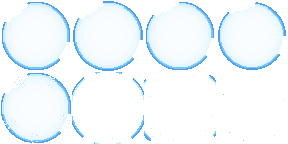
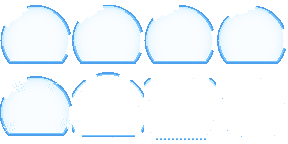
보호막 방울을 돔 모양으로 (아래 평평, 발 밑에 닿음)

diff --git a/img/tools/fx_bubble_draw.js b/img/tools/fx_bubble_draw.js
@@ -1,45 +1,46 @@
-// 사용: img/tools 에서 node fx_bubble_draw.js (결과는 ./fxout/). 보호막 방울 8프레임을 코드로 그린다. png_helper.js는 PNG 읽기·쓰기 도구.
+// 사용: img/tools 에서 node fx_bubble_draw.js (결과는 ./fxout/). 보호막 돔 방울 8프레임을 코드로 그린다. png_helper.js는 PNG 읽기·쓰기 도구.
+// 보호막 방울(아래가 일자): 72x72 프레임 8장 (유지 0~3, 깨짐 4~7). 사용: node bubble2.js
 const {dec,enc}=require('./png_helper.js');const fs=require('fs');
-const F=72,C=(F-1)/2,R=34;const WHITE=[255,255,255];
+const F=72,CX=35.5,CY=40,R=35,CUT=22,YB=CY+CUT; // YB = 평평한 바닥 줄(약 y 68)
+const WHITE=[255,255,255],DARK=[78,160,236],MID=[120,200,255],LIGHT=[196,238,255],TINT=[150,215,255];
 function frame(k){
  const px=Buffer.alloc(F*F*4);const set=(x,y,c,al=255)=>{x=Math.round(x);y=Math.round(y);if(x<0||y<0||x>=F||y>=F)return;const q=(y*F+x)*4;px[q]=c[0];px[q+1]=c[1];px[q+2]=c[2];px[q+3]=al};
- const ang=(x,y,ox=0,oy=0)=>((Math.atan2(y-oy-C,x-ox-C)*180/Math.PI)+360)%360;const inArc=(a,s,e)=>{a=(a-s+720)%360;return a<=((e-s+720)%360)};
- const DARK=[78,160,236],MID=[120,200,255],LIGHT=[196,238,255],TINT=[150,215,255];
- // 한 점의 방울 색: dd = 바깥 가장자리에서 안쪽으로 잰 거리
- function pix(dd,a,s,withTint,full){let c=null,al=255;
-  if(dd>=-0.5&&dd<1){c=DARK}else if(dd>=1&&dd<2.5){c=a>170&&a<300?LIGHT:MID}
-  else if(withTint&&dd>=2.5){c=TINT;al=Math.round(14+66*Math.exp(-(dd-2.5)/4.2))}
-  if(full){ // 반사광: 왼쪽 위 크게, 오른쪽 아래 작게
-   if(inArc(a,205+s,255+s)&&dd>=-0.5&&dd<4.2){c=WHITE;al=255}
-   if(inArc(a,222+s,242+s)&&dd>=4.2&&dd<6.2){c=WHITE;al=255}
-   if(inArc(a,10-s*.5,44-s*.5)&&dd>=-0.5&&dd<3){c=WHITE;al=255}}
+ const ang=(x,y,ox=0,oy=0)=>((Math.atan2(y-oy-CY,x-ox-CX)*180/Math.PI)+360)%360;const inArc=(a,s,e)=>{a=(a-s+720)%360;return a<=((e-s+720)%360)};
+ // 한 점의 색: ddc=원 가장자리에서 안쪽 거리, ddf=평평한 바닥에서 위쪽 거리
+ function pix(ddc,ddf,a,s,full){const dd=Math.min(ddc,ddf);let c=null,al=255;
+  if(dd>=-0.5&&dd<1){c=DARK}else if(dd>=1&&dd<2.5){c=(ddf<ddc)?MID:(a>170&&a<300?LIGHT:MID)}
+  else if(dd>=2.5){c=TINT;al=Math.round(12+62*Math.exp(-(ddc-2.5)/4.2)*(ddf<10?ddf/10:1))}
+  if(full){
+   if(inArc(a,205+s,255+s)&&ddc>=-0.5&&ddc<4.2){c=WHITE;al=255}
+   if(inArc(a,222+s,242+s)&&ddc>=4.2&&ddc<6.2){c=WHITE;al=255}
+   if(inArc(a,350-s*.5,24-s*.5)&&ddc>=-0.5&&ddc<3){c=WHITE;al=255}}
   return c?[c,al]:null}
- const hold=k<4;const t=k%4;
- if(hold){const rr=R+[0,.5,0,-.5][t],s=t*7;
-  for(let y=0;y<F;y++)for(let x=0;x<F;x++){const d=Math.hypot(x-C,y-C);const p=pix(rr-d,ang(x,y),s,true,true);if(p)set(x,y,p[0],p[1])}
-  const sp=[[C+15,C-19],[C-23,C+11],[C+5,C-26],[C+21,C+7]];[0,2].forEach(i=>set(sp[(t+i)%4][0],sp[(t+i)%4][1],WHITE));set(C-18,C-22,WHITE)}
- else if(t===0){const rr=R+1;
-  for(let y=0;y<F;y++)for(let x=0;x<F;x++){const d=Math.hypot(x-C,y-C);const p=pix(rr-d,ang(x,y),0,true,true);if(p)set(x,y,p[0],p[1])}
-  for(const A of [300,150,20,95,235]){for(let r=rr-10;r<=rr+1;r+=.6){const a=(A+Math.sin(r*2)*7)*Math.PI/180;set(C+r*Math.cos(a),C+r*Math.sin(a),WHITE);set(C+r*Math.cos(a)+1,C+r*Math.sin(a),LIGHT)}}}
- else if(t===1||t===2){const n=6,gap=t===1?14:24,off=t===1?4:10,arcLen=360/n-gap;
-  for(let i=0;i<n;i++){const s=i*360/n+8,mid=s+arcLen/2,ox=Math.cos(mid*Math.PI/180)*off,oy=Math.sin(mid*Math.PI/180)*off;
-   for(let y=0;y<F;y++)for(let x=0;x<F;x++){const d=Math.hypot(x-ox-C,y-oy-C),a=ang(x,y,ox,oy);if(!inArc(a,s,s+arcLen))continue;const dd=R+1-d;
+ const hold=k<4,t=k%4;
+ if(hold||t===0){const rr=R+(hold?[0,.5,0,-.5][t]:1),s=hold?t*7:0;
+  for(let y=0;y<F;y++)for(let x=0;x<F;x++){const d=Math.hypot(x-CX,y-CY);const ddf=YB-y+0.5;if(ddf<-0.5)continue;const p=pix(rr-d,ddf,ang(x,y),s,true);if(p)set(x,y,p[0],p[1])}
+  if(hold){const sp=[[CX+15,CY-19],[CX-23,CY+11],[CX+5,CY-26],[CX+21,CY+7]];[0,2].forEach(i=>set(sp[(t+i)%4][0],sp[(t+i)%4][1],WHITE));set(CX-18,CY-22,WHITE)}
+  else for(const A of [300,150,20,95,235]){for(let r=rr-10;r<=rr+1;r+=.6){const a=(A+Math.sin(r*2)*7)*Math.PI/180,x=CX+r*Math.cos(a),y=CY+r*Math.sin(a);if(y<=YB){set(x,y,WHITE);set(x+1,y,LIGHT)}}}}
+ else if(t===1||t===2){const n=5,gap=t===1?14:24,off=t===1?4:10,arcLen=258/n-gap;
+  for(let i=0;i<n;i++){const s=141+i*258/n+gap/2,mid=s+arcLen/2,ox=Math.cos(mid*Math.PI/180)*off,oy=Math.sin(mid*Math.PI/180)*off;
+   for(let y=0;y<F;y++)for(let x=0;x<F;x++){const d=Math.hypot(x-ox-CX,y-oy-CY),a=ang(x,y,ox,oy);if(!inArc(a,s,s+arcLen))continue;if(y-oy>YB+0.5)continue;const dd=Math.min(R+1-d,YB-(y-oy)+0.5);
     if(dd>=-0.5&&dd<1)set(x,y,DARK);else if(dd>=1&&dd<2.5)set(x,y,i%2?LIGHT:MID);else if(dd>=2.5&&dd<4&&i%3===0)set(x,y,WHITE)}}
-  const dr=t===1?[[C-27,C-21],[C+28,C-6],[C+3,C+30]]:[[C-31,C-12],[C+31,C+8],[C-8,C+32],[C+12,C-33],[C-21,C+26]];dr.forEach(p=>{set(p[0],p[1],WHITE);set(p[0]+1,p[1],LIGHT)});if(t===2)[[C+25,C+22],[C-29,C+20]].forEach(p=>set(p[0],p[1],LIGHT))}
- else{[[C-30,C-14],[C+31,C-9],[C-10,C+32],[C+22,C+27],[C-24,C+24],[C+8,C-33]].forEach((p,i)=>{set(p[0],p[1],i%2?LIGHT:WHITE);if(i%2===0)set(p[0]+1,p[1],MID)})}
+  // 바닥 줄도 조각: 아래로 처지며 끊어짐
+  const by=YB+(t===1?2:5);for(let x=CX-26;x<=CX+26;x++){if(t===2&&Math.round(x)%4>1)continue;set(x,by,DARK);set(x,by-1,MID)}
+  const dr=t===1?[[CX-28,CY-21],[CX+29,CY-6],[CX+3,CY+25]]:[[CX-32,CY-12],[CX+32,CY+8],[CX-18,CY+27],[CX+12,CY-34],[CX+26,CY+22]];dr.forEach(p=>{set(p[0],p[1],WHITE);set(p[0]+1,p[1],LIGHT)});if(t===2)[[CX+30,CY+18],[CX-30,CY+20]].forEach(p=>set(p[0],p[1],LIGHT))}
+ else{[[CX-31,CY-14],[CX+32,CY-9],[CX-12,CY+24],[CX+22,CY+23],[CX-26,CY+18],[CX+8,CY-34]].forEach((p,i)=>{set(p[0],p[1],i%2?LIGHT:WHITE);if(i%2===0)set(p[0]+1,p[1],MID)})}
  return px}
 const frames=[...Array(8)].map((_,k)=>frame(k));
 const cols=4,SW=cols*F,SH=2*F,sheet=Buffer.alloc(SW*SH*4);
 frames.forEach((p,n)=>{const r=Math.floor(n/cols),c=n%cols;for(let y=0;y<F;y++)p.copy(sheet,((r*F+y)*SW+c*F)*4,y*F*4,(y*F+F)*4)});
 fs.mkdirSync('fxout',{recursive:true});enc(SW,SH,sheet,'fxout/fx_bubble.png');
 const json={frames:frames.map((_,n)=>{const r=Math.floor(n/cols),c=n%cols;return{filename:(n<4?'bubble hold ':'bubble break ')+(n%4),frame:{x:c*F,y:r*F,w:F,h:F},rotated:false,trimmed:false,spriteSourceSize:{x:0,y:0,w:F,h:F},sourceSize:{w:F,h:F},duration:n<4?150:60}}),
- meta:{app:'image-session',image:'fx_bubble.png',size:{w:SW,h:SH},frameTags:[{name:'hold',from:0,to:3,direction:'pingpong'},{name:'break',from:4,to:7,direction:'forward'}]}};
+ meta:{app:'image-session',image:'fx_bubble.png',size:{w:SW,h:SH},anchor:{x:36,y:Math.round(YB)+1,note:'기준점 = 평평한 바닥 줄(영웅 발 밑)'},frameTags:[{name:'hold',from:0,to:3,direction:'pingpong'},{name:'break',from:4,to:7,direction:'forward'}]}};
 fs.writeFileSync('fxout/fx_bubble.json',JSON.stringify(json,null,1));
-// 미리보기: 전장색 바탕 + 기사 + 방울 (x4)
-const K=dec('C:/Users/Home/Downloads/방치형RPG_테스트베드/img/p/knight.png');const sc=4,PW=SW*sc,PH=SH*sc,o=Buffer.alloc(PW*PH*4);
+// 미리보기: 기사 발이 평평한 바닥 줄(YB)에 오게
+const Kn=dec(process.env.KNIGHT||'C:/Users/Home/Downloads/방치형RPG_테스트베드/img/p/knight.png');const sc=4,PW=SW*sc,PH=SH*sc,o=Buffer.alloc(PW*PH*4);
 for(let i=0;i<PW*PH;i++){o[i*4]=0x7a;o[i*4+1]=0x8a;o[i*4+2]=0x5a;o[i*4+3]=255}
 const put=(x,y,c,a)=>{const q=(y*PW+x)*4;o[q]=o[q]*(1-a/255)+c[0]*a/255;o[q+1]=o[q+1]*(1-a/255)+c[1]*a/255;o[q+2]=o[q+2]*(1-a/255)+c[2]*a/255};
-for(let n=0;n<8;n++){const r=Math.floor(n/cols),c=n%cols;
- if(n<5||n===5||true){for(let y=0;y<64;y++)for(let x=0;x<64;x++){const i=(y*64+x)*4;if(!K.d[i+3])continue;for(let yy=0;yy<sc;yy++)for(let xx=0;xx<sc;xx++)put((c*F+4+x)*sc+xx,(r*F+8+y)*sc+yy,[K.d[i],K.d[i+1],K.d[i+2]],255)}}
+for(let n=0;n<8;n++){const r=Math.floor(n/cols),c=n%cols;const ky=Math.round(YB)-63;
+ for(let y=0;y<64;y++)for(let x=0;x<64;x++){const i=(y*64+x)*4;if(!Kn.d[i+3])continue;for(let yy=0;yy<sc;yy++)for(let xx=0;xx<sc;xx++)put((c*F+4+x)*sc+xx,(r*F+ky+y)*sc+yy,[Kn.d[i],Kn.d[i+1],Kn.d[i+2]],255)}
  for(let y=0;y<F;y++)for(let x=0;x<F;x++){const i=((r*F+y)*SW+c*F+x)*4;if(!sheet[i+3])continue;for(let yy=0;yy<sc;yy++)for(let xx=0;xx<sc;xx++)put((c*F+x)*sc+xx,(r*F+y)*sc+yy,[sheet[i],sheet[i+1],sheet[i+2]],sheet[i+3])}}
-enc(PW,PH,o,'fxout/preview_bubble.png');console.log('fx_bubble',SW+'x'+SH,'프레임 8 x',F+'x'+F);
+enc(PW,PH,o,'fxout/preview_bubble.png');console.log('fx_bubble',SW+'x'+SH,'평평한 바닥 줄 y',Math.round(YB));

diff --git a/개발일지/2026-11-25/이미지.md b/개발일지/2026-11-25/이미지.md
@@ -97,3 +97,8 @@
 - 방법 메모: 먼저 코덱스로 8프레임(`img/codex/fx_bubble_sheet.png`)을 그려 봤는데 픽셀이 너무 굵게 나와(방울 지름 약 24칸, 영웅을 감싸려면 약 70칸) 쓰지 않았음. 모양은 참고하고, 원형이라 영웅과 같은 픽셀 크기(1칸)로 코드(`img/tools/fx_bubble_draw.js`)로 직접 그림. 다른 이펙트(bigslash 등)는 코덱스 그림을 씀.
 - 결과: 게임에서 쓰면 중심이 영웅 몸통 가운데여야 함(프레임 가운데 36,36). UI 세션이 연결해야 확인 가능.
 - 그림: img/fx/fx_bubble.png, fx_bubble.json
+
+## [디자인] 보호막 방울을 돔 모양으로 고침 (아래가 평평, 발 밑에 닿음) → img/fx/fx_bubble.png (같은 이름 교체)
+- 한 것: 사용자 "방울 위치 하단값이 캐릭터 발 밑까지 되어야 할 것 같은데" → "약간 밑이 일자식으로" → "ㅇㅇ 맞아 돔 형태. 아래만 좀더많이." 에 따라 완전한 원이던 방울을 돔으로 바꿈. 반지름 35의 원을 중심 아래 22칸에서 수평으로 잘라 넓은 평평한 바닥(약 54칸)을 만들고, 그 바닥 줄이 영웅 발 밑에 닿게 함. 프레임 72×72 8장·유지 0~3·깨짐 4~7·json frameTags는 그대로. 바닥 줄 y=62(테두리 61~62), 돔 꼭대기 y=5, 기준점 `meta.anchor` x 36·y 63(바닥 줄 바로 아래).
+- 깨짐: 보이는 호(왼쪽 아래 → 위 → 오른쪽 아래)를 5조각으로 나눠 바깥으로, 바닥 줄은 아래로 처지며 점선처럼 끊어지고 사라짐. 바닥 쪽에는 안쪽 옅은 막을 약하게 해서 발을 안 가림.
+- 결과: 기사를 발이 바닥 줄에 오게 겹쳐 본 미리보기 `img/codex/preview_fx_bubble.png`를 사용자께 보여 드림(처음 일자 안은 "돔 형태, 아래만 좀 더 많이"). 같은 이름 파일이라 배포할 때 `files`에 `img/fx/fx_bubble.png`·`fx_bubble.json`을 꼭 넣어야 함. 게임에서의 위치는 UI 세션이 기준점(py 63)을 발 밑(foot+3)에 놓아야 맞음.
